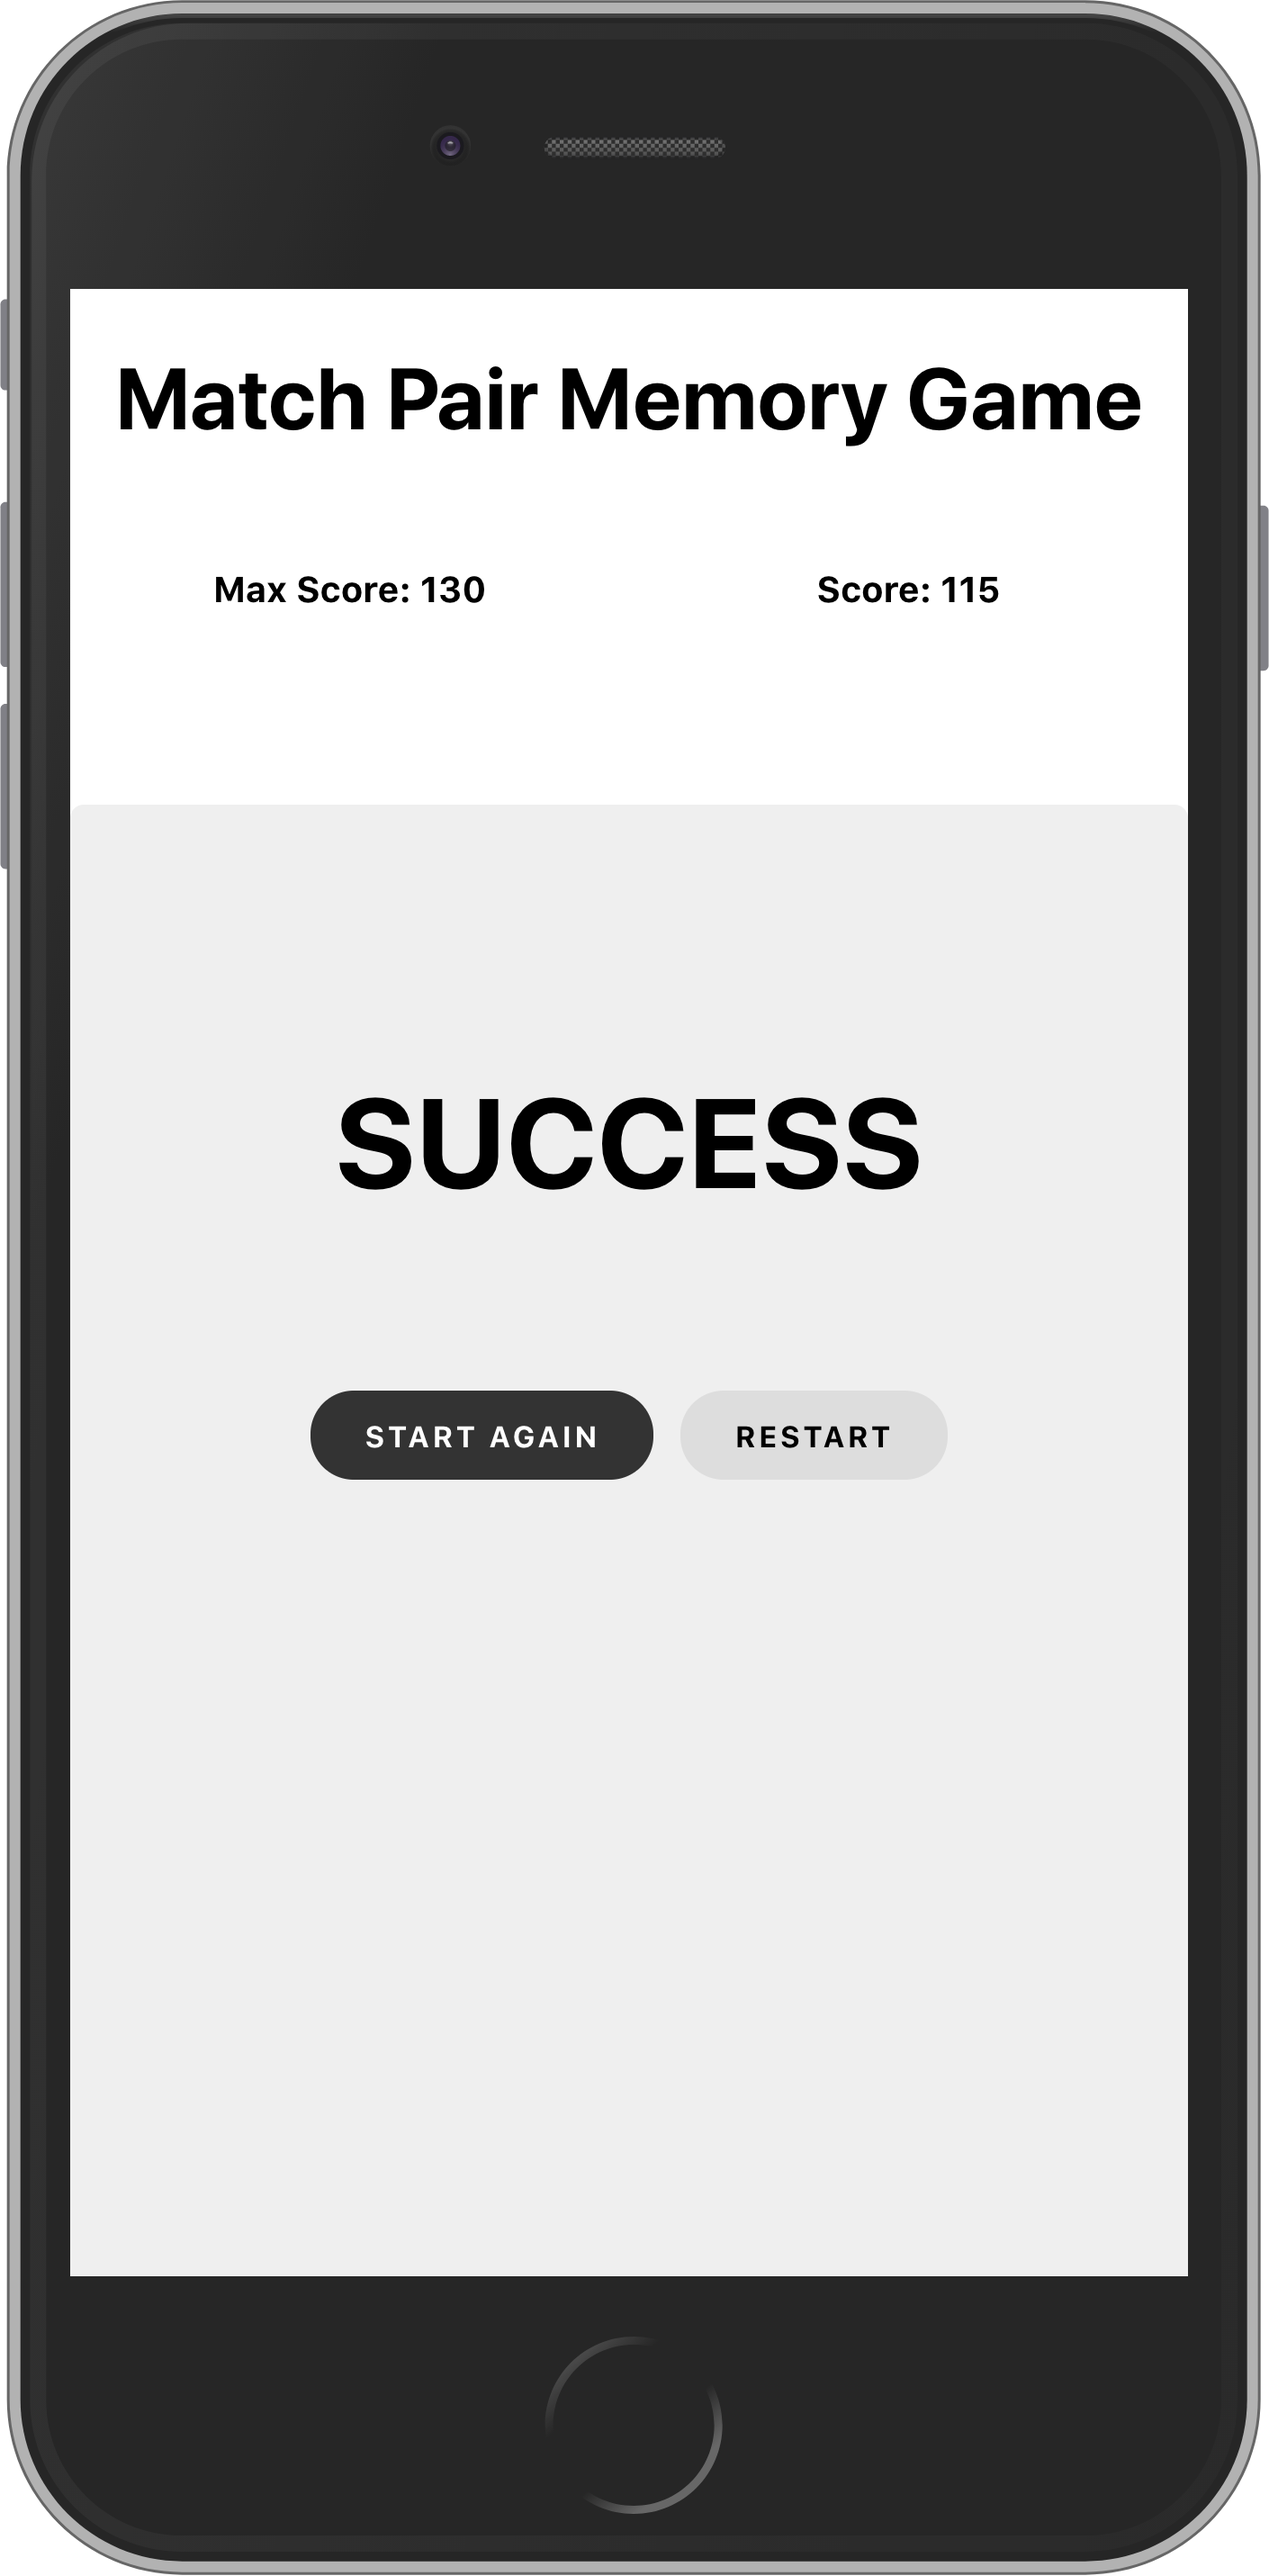
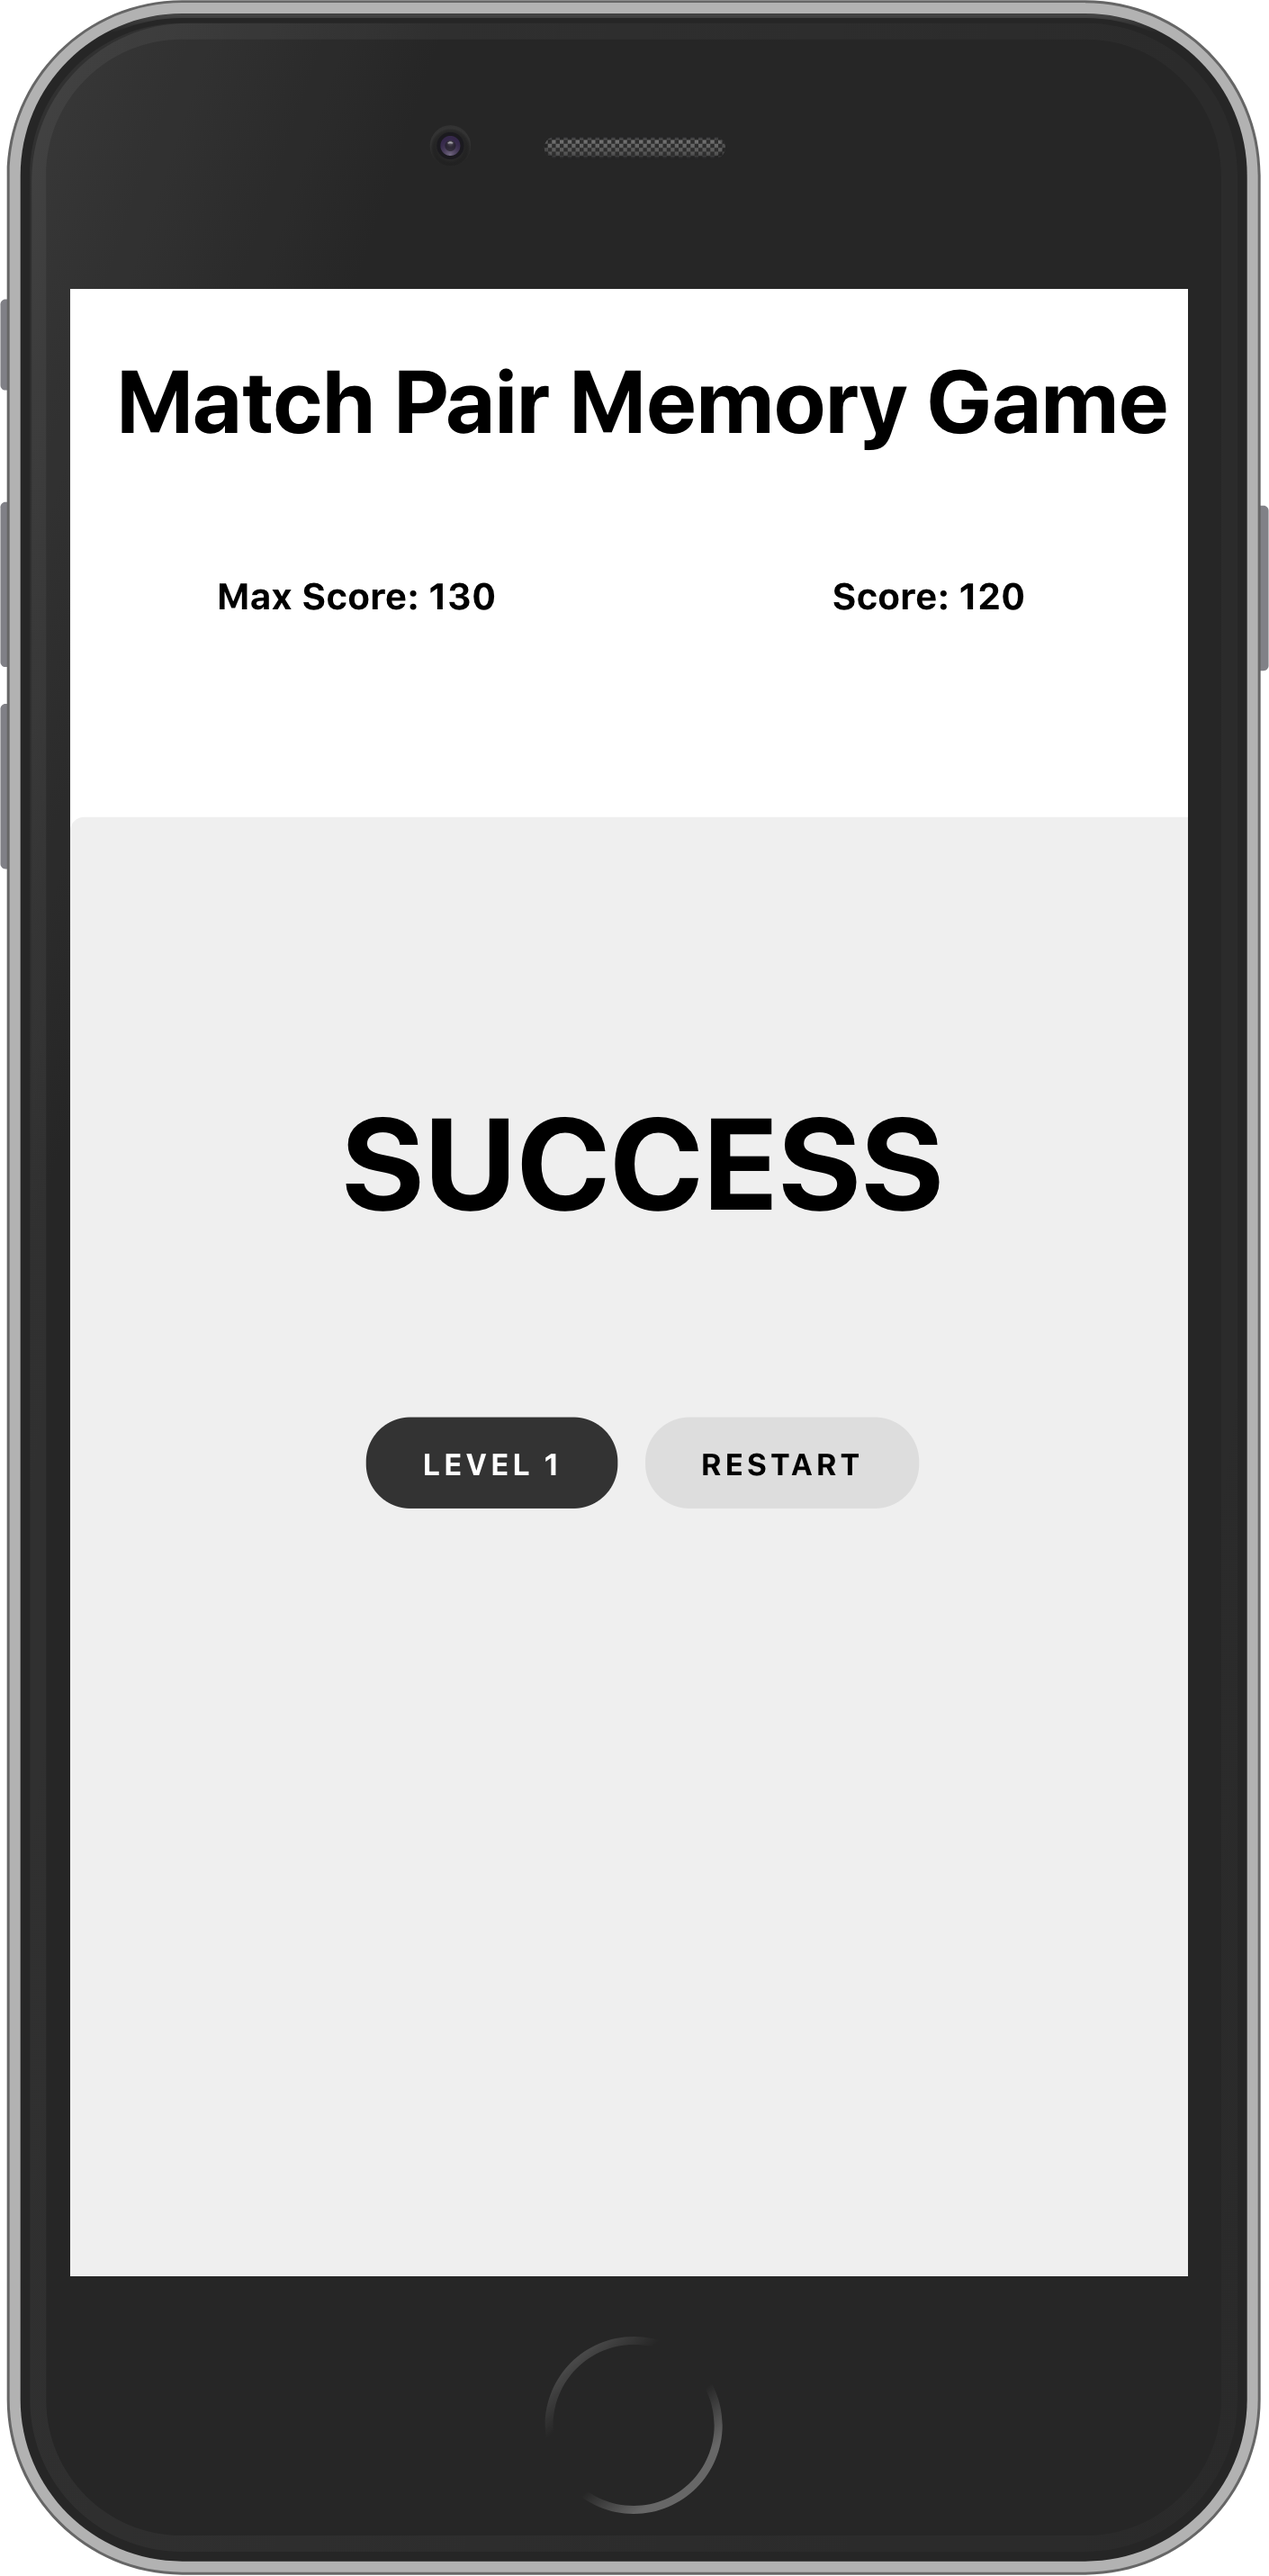
first commit

diff --git a/src/App.js b/src/App.js
@@ -25,7 +25,7 @@ class App extends Component {
     super(context, props);
 
     this.state = {
-      gridSize: 6,
+      gridSize: 4,
       originalImageArray: [
         happy, angry, lol, cool, evil, love, kiss, neutral, puzzled, sad, surprised, tongue, wink, face, hand, swearing, drama, comedy
       ],
@@ -35,10 +35,10 @@ class App extends Component {
       lastActive: -1,
       lastActivePosition: -1,
       guessCount: 0,
-      start: true,
-      success: true,
+      start: false,
+      success: false,
       disbleClick: false,
-      level: 2,
+      level: 1,
       score: 0,
       maxScore: 0
     };
